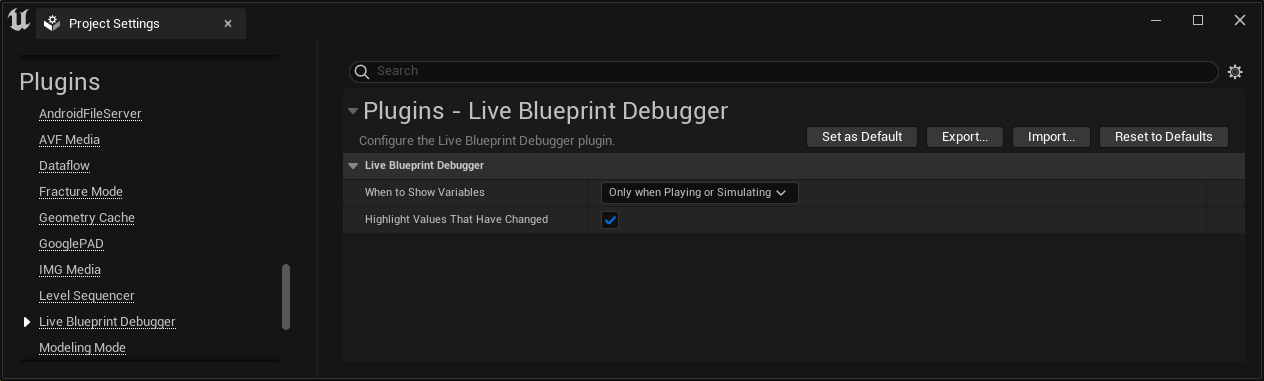
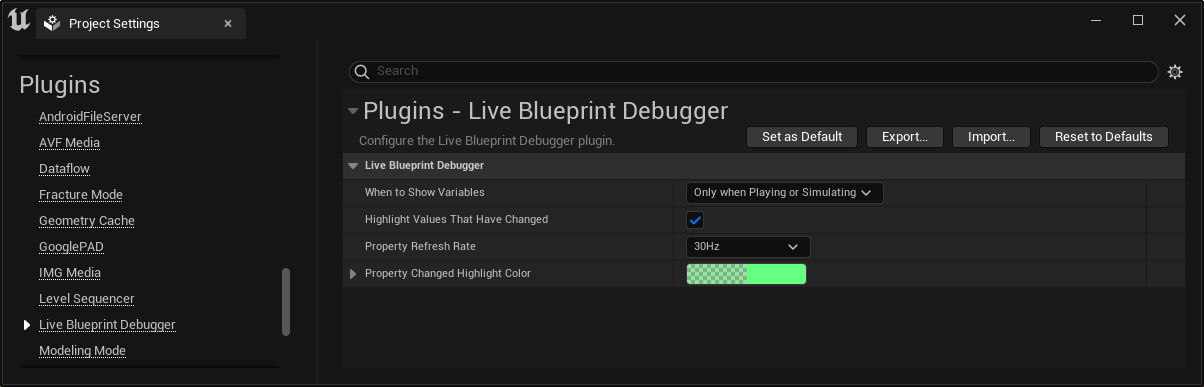
Update README.md with the new settings, run a spell check on the markdown, and update the settings page screenshot.

diff --git a/README.md b/README.md
@@ -8,11 +8,11 @@ The above editor screenshot shows filtering for 'enemy' variables. We can see th
 
 ## Features
 - Live Blueprint variable data directly in the Actor details panel.
-- Use the details panel filter to search for specific Blueprint variables.
-- When a variable changes, it is highlighted in green for 1 second in the details panel.
+- Fast filtering for specific Blueprint variables.
+- When a variable changes, it is highlighted for 1 second in the details panel.
 
 ## Differences from the Blueprint Editor's Blueprint Debugger
-- Will not expand `UObject` references or variables.
+- Does not expand `UObject` references or variables for faster performance.
 - Maximum nested expansion depth is 5 levels.
 - Variable values are updated in real time.
 - Variable filtering is very fast.
@@ -26,13 +26,26 @@ The Live Blueprint Debugger settings can be found in `Edit` -> `Project Settings
 
 ### Setting - When to Show Variables
 
-`Only While Playing or Simulating` - Only show the Blueprint section and Blueprint debugger variables when playing or simualting in the editor. This is the default mode.
+`Only While Playing or Simulating` - Only show the Blueprint section and Blueprint debugger variables when playing or simulating in the editor. This is the default mode.
 
-`Always` - Show the Blueprint section even when not playing or simualting. Note that live variable updates are disabled when not playing or simulating.
+`Always` - Show the Blueprint section even when not playing or simulating. Note that live variable updates are disabled when not playing or simulating.
 
 ### Setting - Highlight Values That Have Changed
-Setting this to true will show a one-second green highlight animation around a Blueprint variable in the details panel when its value changes.
+Setting this to true will show a one-second highlight animation around a Blueprint variable in the details panel when its value changes.
+
+### Property Refresh Rate
+
+`No Live Updates` - Blueprint variable values will only be updated when first selecting an Actor.
+
+`1Hz` - Blueprint variables will be refreshed 1 time per second.
+
+`10Hz` - Blueprint variables will be refreshed 10 times per second. This is the default mode.
+
+`30Hz` - Blueprint variables will be refreshed 30 times per second.
+
+### Property Changed Highlight Color
+This will control the highlight color in the UI when a Blueprint variable value changes if live updates are enabled. The default is green at 60% opacity.
 
 ## Notes
 
-The Live Blueprint Editor will create a category for public Blueprint variables under the category `Blueprint Properties - Public`. These variables are also included in the details panel under the category `Public`. Only the `Blueprint Properties - Public` category supports live updates.
+The Live Blueprint Editor will create a category for public Blueprint variables under the category `Blueprint Properties - Public`. These variables are also included by default in the details panel under the category `Public`. Only the `Blueprint Properties - Public` category supports live updates, `Public` does not.
